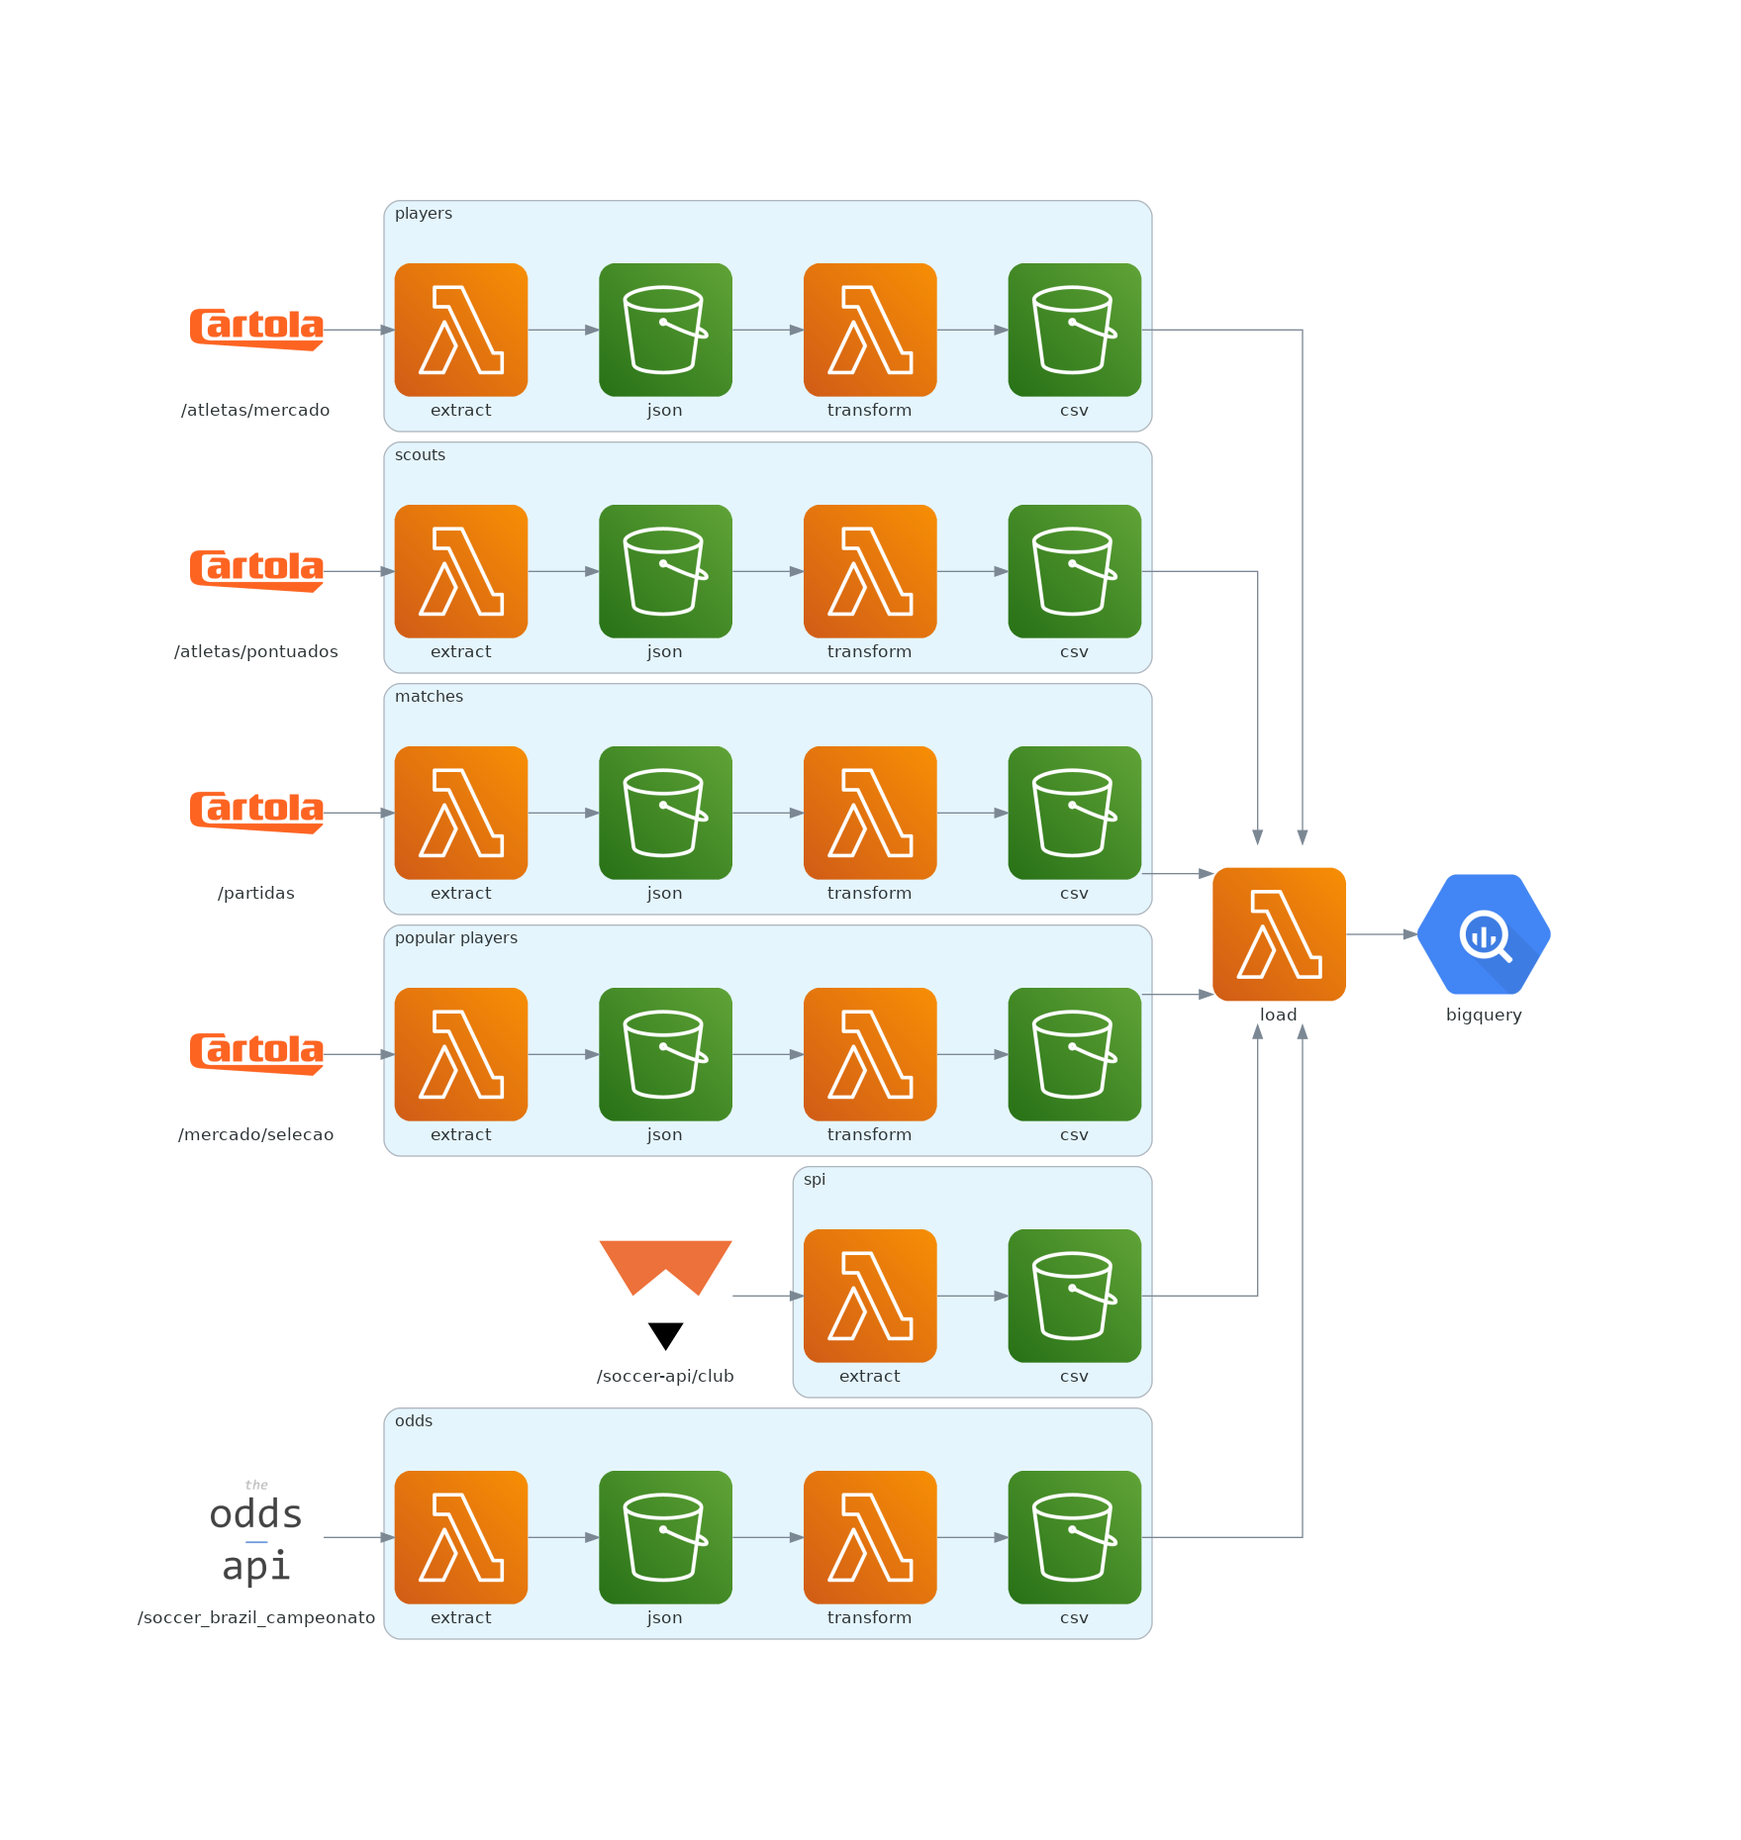
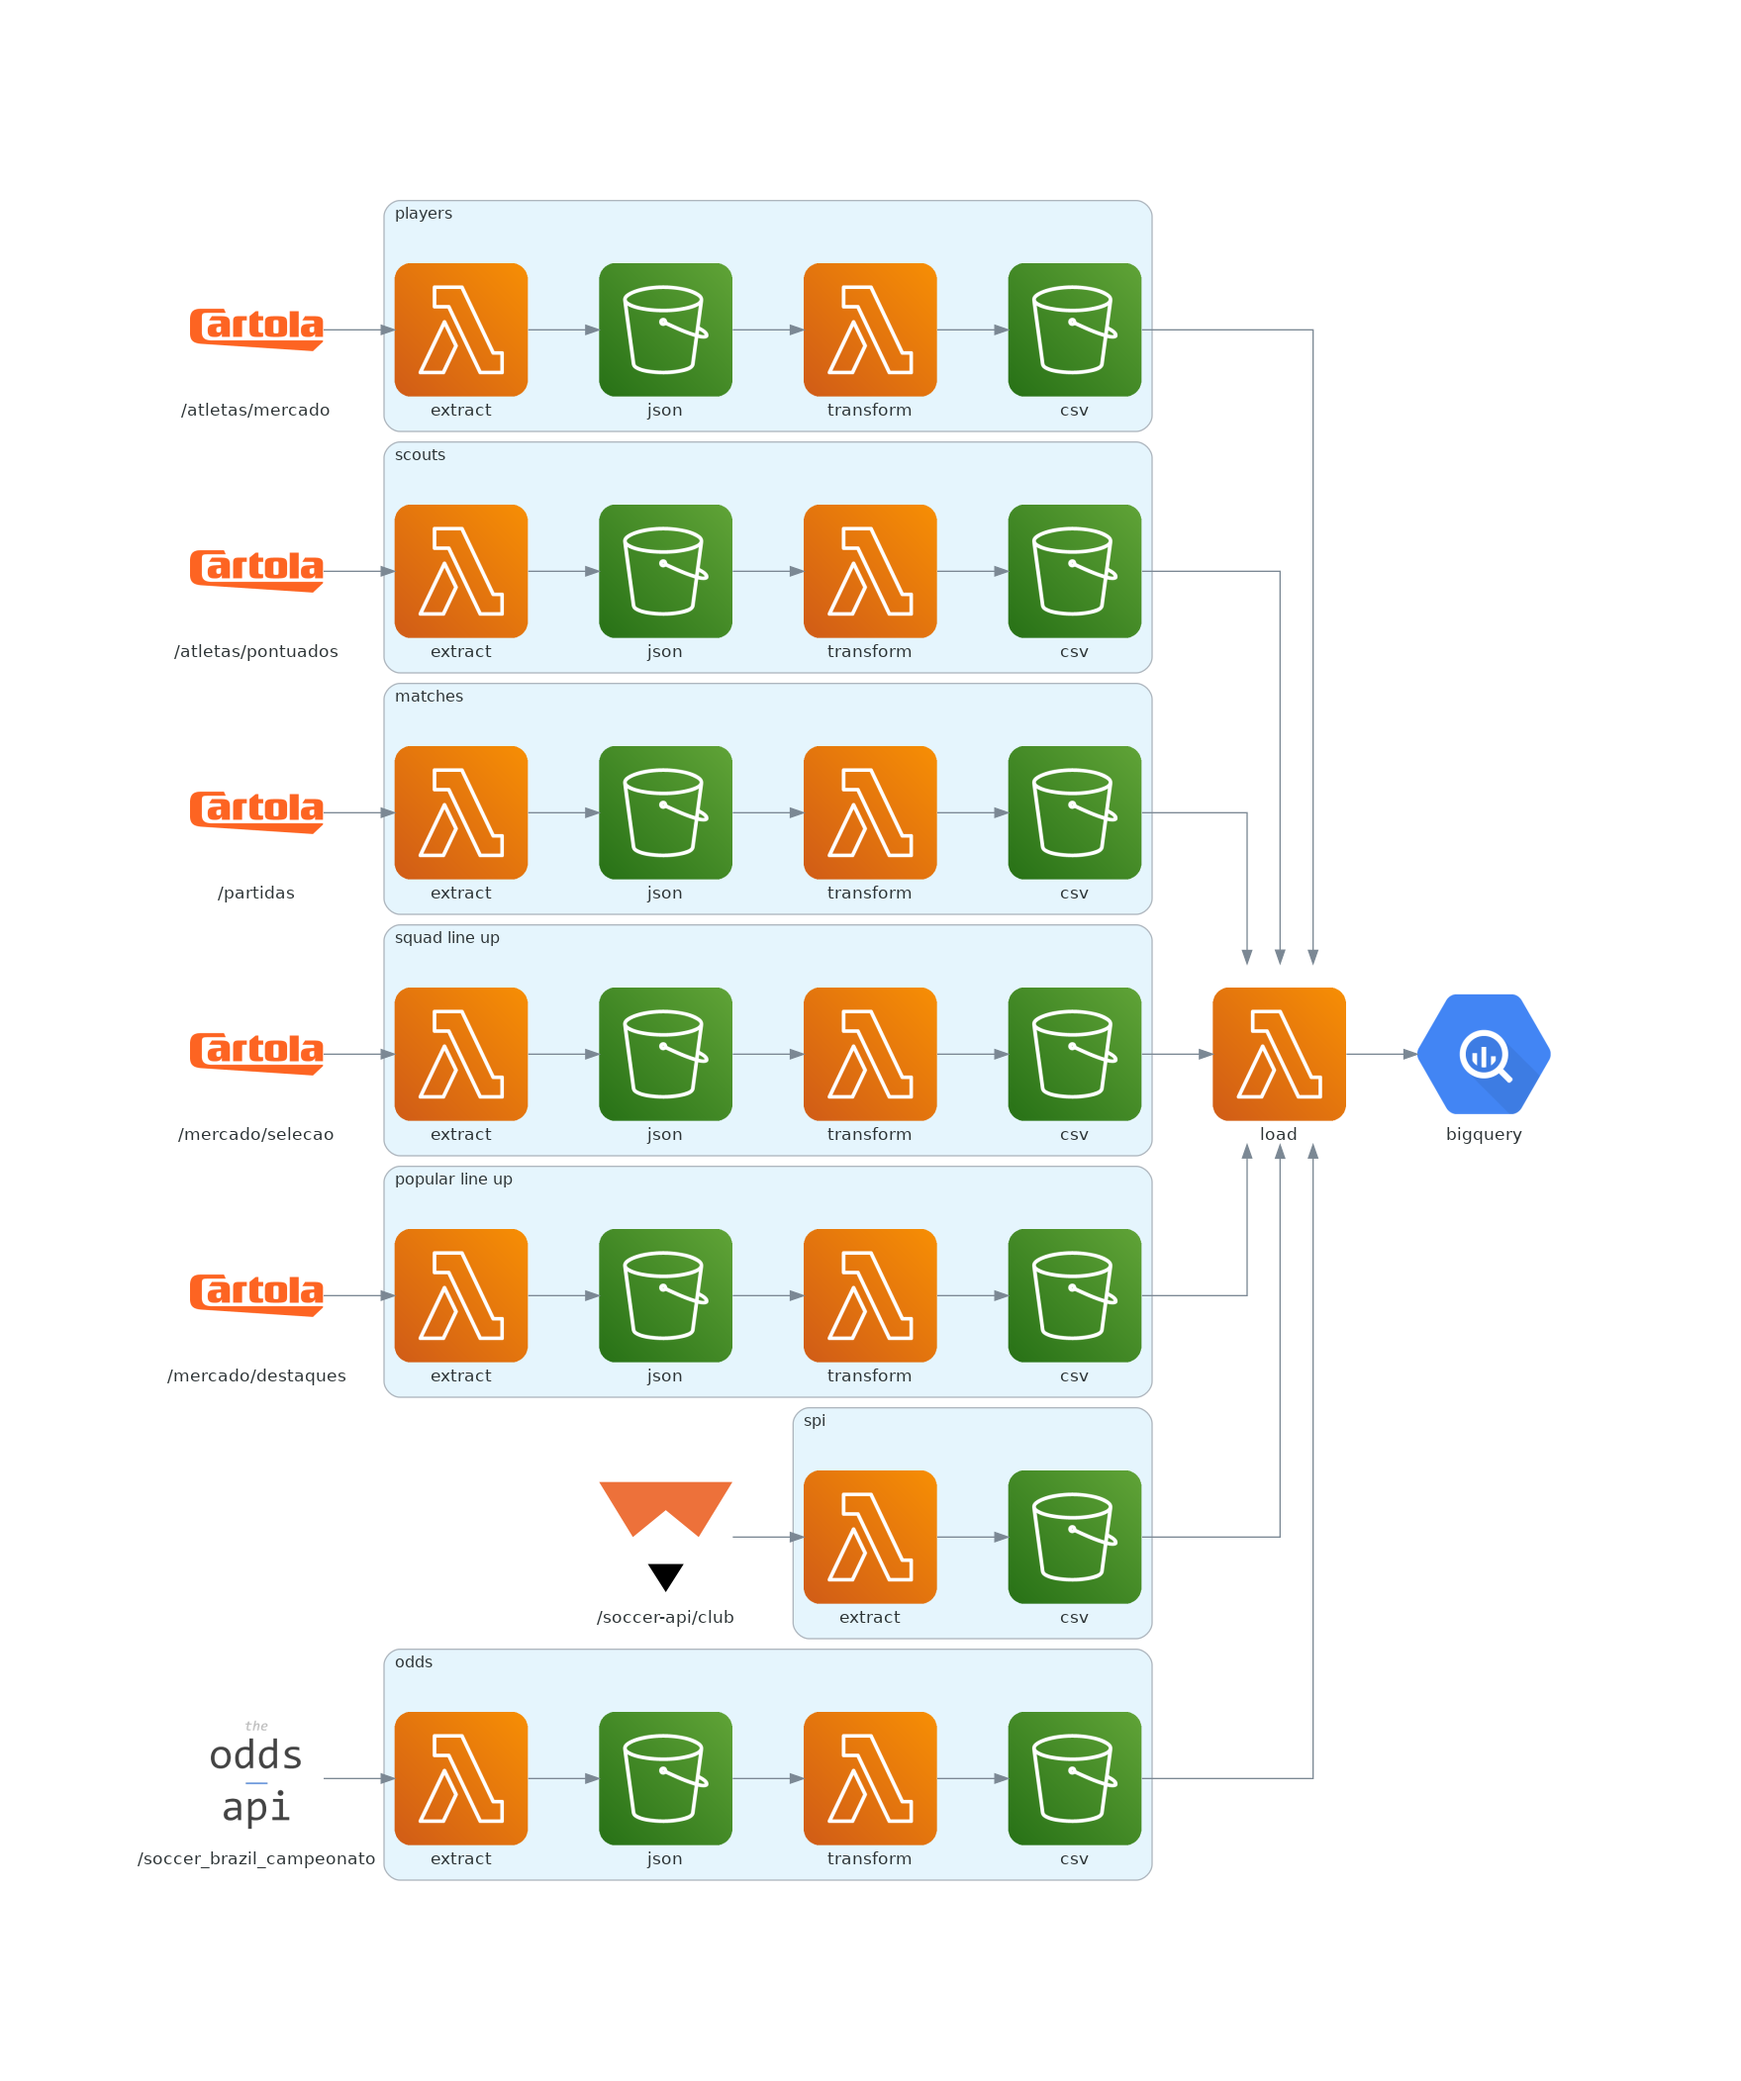
Update readme

diff --git a/diagrams/make_diagrams.py b/diagrams/make_diagrams.py
@@ -32,6 +32,7 @@ with Diagram(
     cartola_atletas_pontuados = Custom("/atletas/pontuados", CARTOLA_PATH)
     cartola_partidas = Custom("/partidas", CARTOLA_PATH)
     cartola_mercado_selecao = Custom("/mercado/selecao", CARTOLA_PATH)
+    cartola_mercado_destaques = Custom("/mercado/destaques", CARTOLA_PATH)
     fivethirtyeight = Custom("/soccer-api/club", FIVETHIRTYEIGHT_PATH)
     odds = Custom("/soccer_brazil_campeonato", ODDS_PATH)
     load = Lambda("load")
@@ -62,9 +63,18 @@ with Diagram(
             >> S3("csv")
             >> load
         )
-    with Cluster("popular line up"):
+    with Cluster("squad line up"):
         (
             cartola_mercado_selecao
+            >> Lambda("extract")
+            >> S3("json")
+            >> Lambda("transform")
+            >> S3("csv")
+            >> load
+        )
+    with Cluster("popular line up"):
+        (
+            cartola_mercado_destaques
             >> Lambda("extract")
             >> S3("json")
             >> Lambda("transform")
